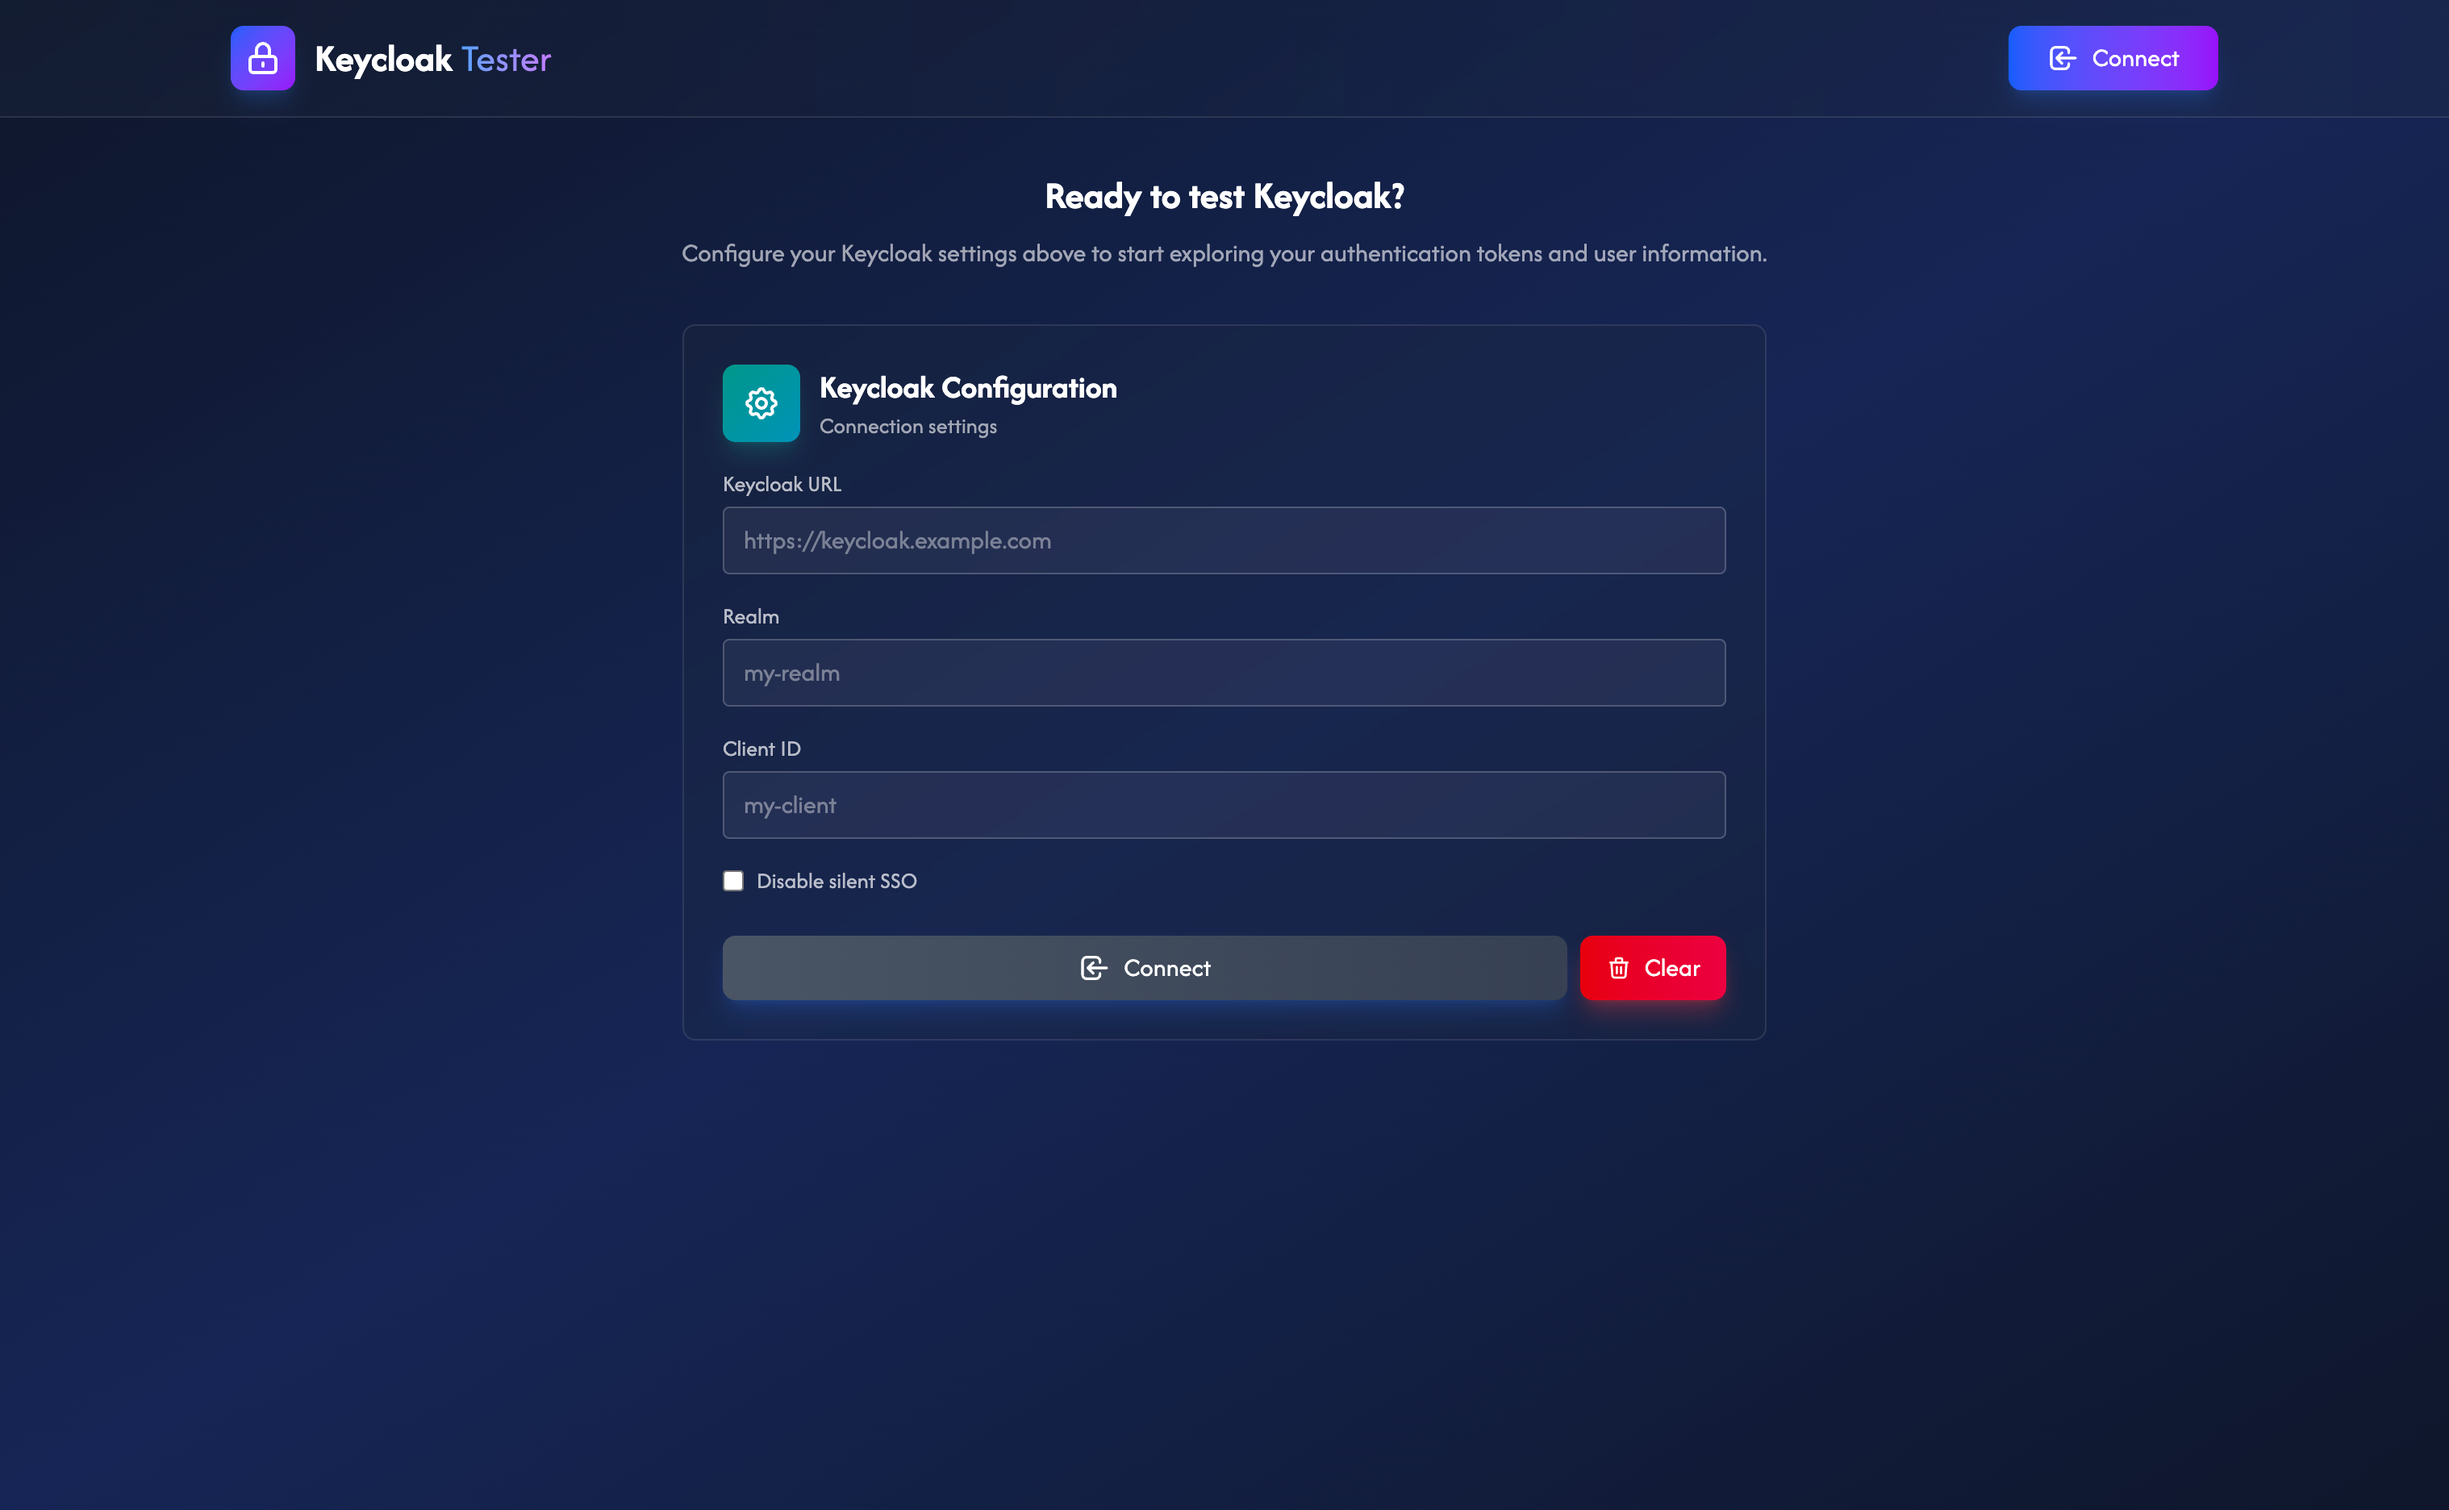
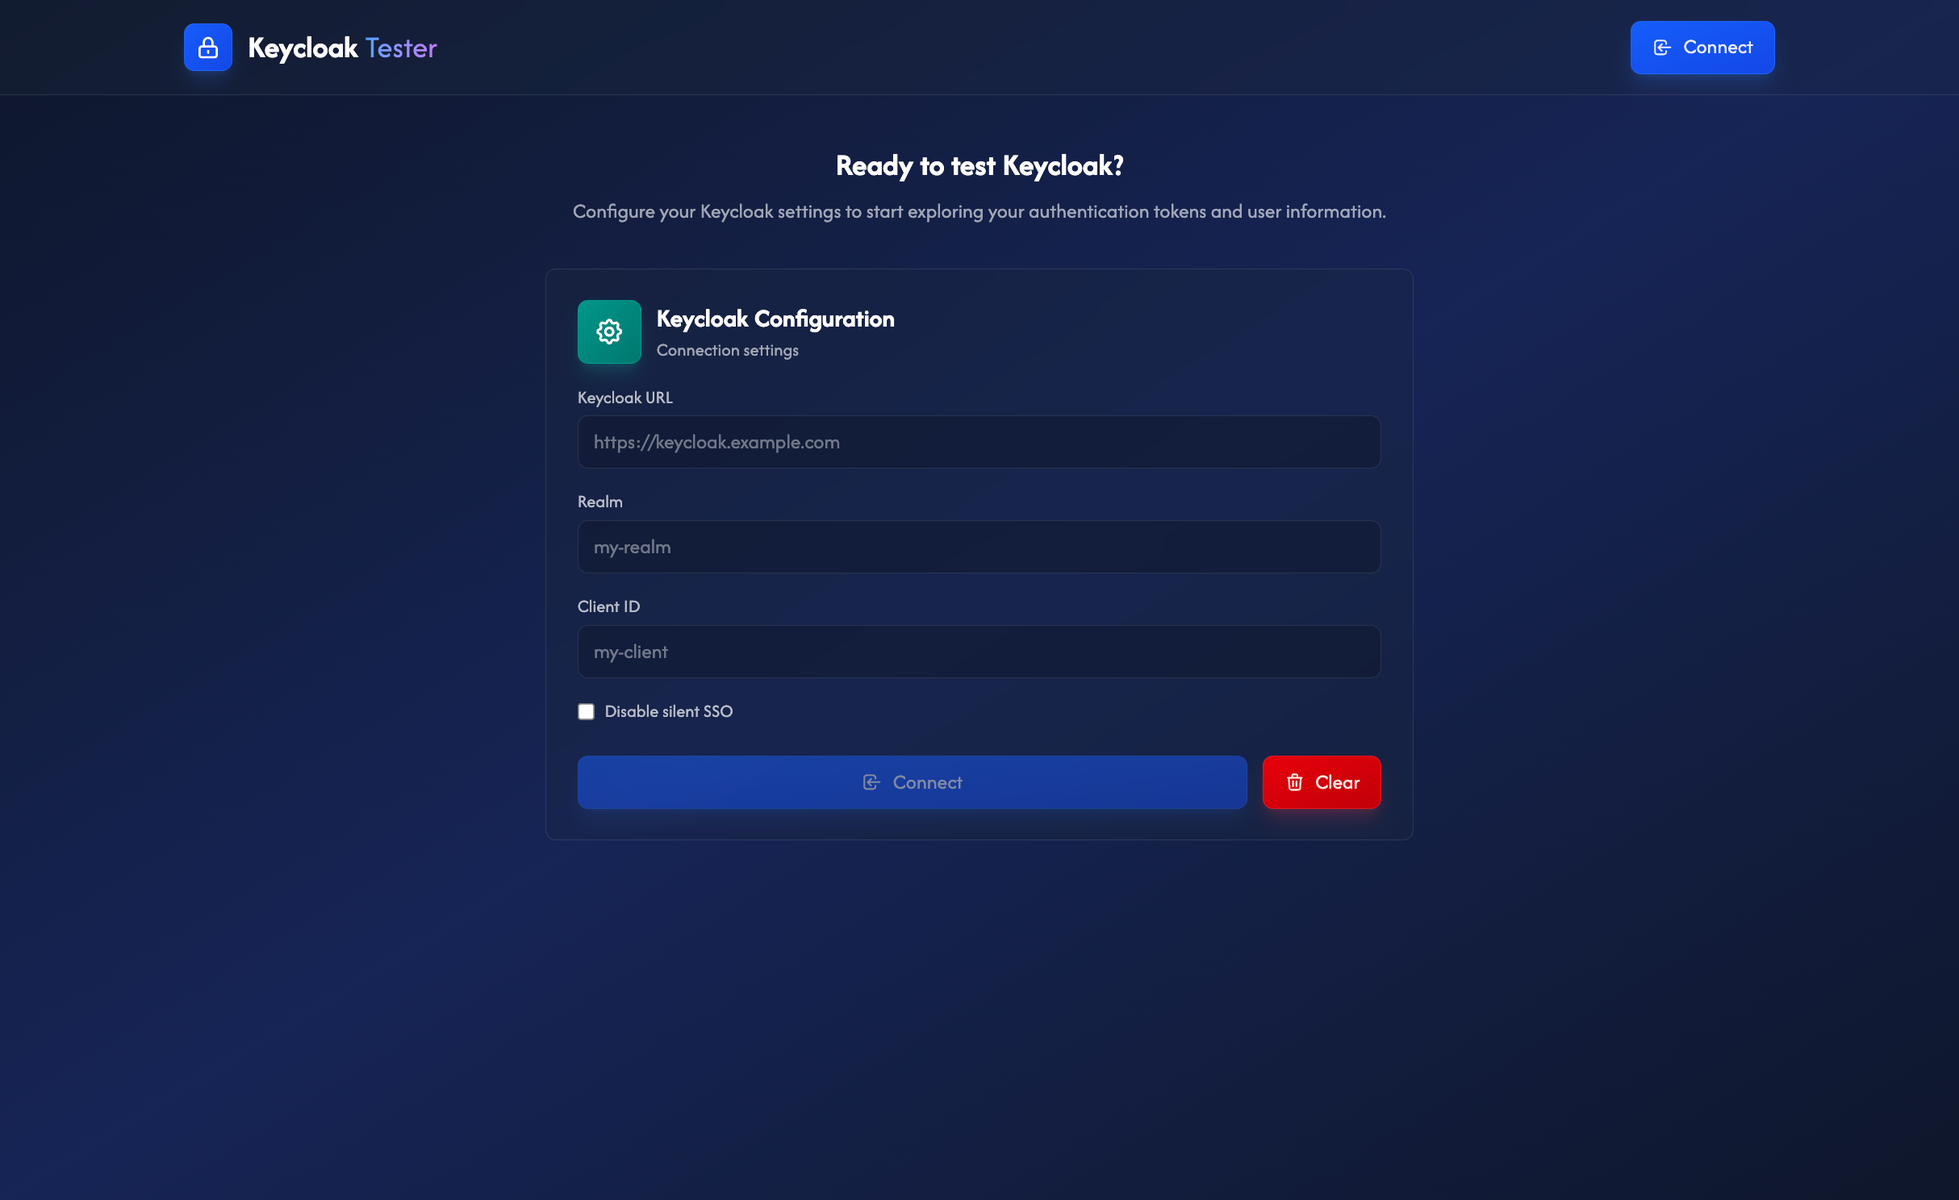
✨ Refactor toast notifications and improve UI components for better user experience

diff --git a/src/components/ToastContainer.tsx b/src/components/ToastContainer.tsx
@@ -1,0 +1,100 @@
+import { useState, useEffect, useCallback } from 'react';
+import { GlassPanel } from './GlassPanel';
+import { IconBox } from './IconBox';
+import { Button } from './Button';
+import type { ColorName } from '../styles/colors';
+
+interface ToastItem {
+  id: string;
+  message: string;
+  color: ColorName;
+}
+
+interface ToastProps {
+  toast: ToastItem;
+  index: number;
+  onClose: (id: string) => void;
+}
+
+function Toast({ toast, index, onClose }: ToastProps) {
+  const [isClosing, setIsClosing] = useState(false);
+  const [isEntering, setIsEntering] = useState(false);
+
+  const handleClose = useCallback(() => {
+    setIsClosing(true);
+    setTimeout(() => {
+      onClose(toast.id);
+    }, 300);
+  }, [toast.id, onClose]);
+
+  useEffect(() => {
+    // Animation d'entrée
+    setTimeout(() => setIsEntering(true), 10);
+
+    // Timer de fermeture automatique
+    const timer = window.setTimeout(() => {
+      handleClose();
+    }, 3000);
+
+    return () => clearTimeout(timer);
+  }, [handleClose]);
+
+  return (
+    <div
+      className={`transition-all duration-300 ${isClosing ? 'translate-x-[120%] opacity-0' : isEntering ? 'translate-x-0 opacity-100' : 'translate-x-[120%] opacity-0'} ${index > 0 ? 'mb-3' : ''}`}
+    >
+      <GlassPanel padding="sm" borderColor={toast.color} className="max-w-sm">
+        <div className="flex items-center gap-3">
+          <IconBox color={toast.color} size="sm">
+            <svg
+              className="w-4 h-4"
+              fill="none"
+              stroke="currentColor"
+              viewBox="0 0 24 24"
+            >
+              <path
+                strokeLinecap="round"
+                strokeLinejoin="round"
+                strokeWidth={2}
+                d="M9 12l2 2 4-4m6 2a9 9 0 11-18 0 9 9 0 0118 0z"
+              />
+            </svg>
+          </IconBox>
+          <p className="text-white font-medium flex-1">{toast.message}</p>
+          <Button size="sm" onClick={handleClose} className="p-1.5! shrink-0">
+            <svg
+              className="w-4 h-4"
+              fill="none"
+              stroke="currentColor"
+              viewBox="0 0 24 24"
+            >
+              <path
+                strokeLinecap="round"
+                strokeLinejoin="round"
+                strokeWidth={2}
+                d="M6 18L18 6M6 6l12 12"
+              />
+            </svg>
+          </Button>
+        </div>
+      </GlassPanel>
+    </div>
+  );
+}
+
+interface ToastContainerProps {
+  toasts: ToastItem[];
+  onRemove: (id: string) => void;
+}
+
+export function ToastContainer({ toasts, onRemove }: ToastContainerProps) {
+  if (toasts.length === 0) return null;
+
+  return (
+    <div className="fixed bottom-6 right-6 z-50 flex flex-col-reverse items-end">
+      {toasts.map((toast, index) => (
+        <Toast key={toast.id} toast={toast} index={index} onClose={onRemove} />
+      ))}
+    </div>
+  );
+}

diff --git a/src/App.tsx b/src/App.tsx
@@ -1,12 +1,19 @@
-import { useState } from 'react';
+import { useState, useCallback, useEffect } from 'react';
 import { ConfigForm } from './components/ConfigForm';
 import { NavBar } from './components/NavBar';
 import { UserMenu } from './components/UserMenu';
 import { TokenDisplay } from './components/TokenDisplay';
-import { Toast } from './components/Toast';
+import { ToastContainer } from './components/ToastContainer';
 import { ExpirationTimer } from './components/ExpirationTimer';
 import { Loader } from './components/Loader';
 import { useKeycloak } from './hooks/useKeycloak';
+import type { ColorName } from './styles/colors';
+
+interface ToastItem {
+  id: string;
+  message: string;
+  color: ColorName;
+}
 
 function App() {
   const {
@@ -20,10 +27,21 @@ function App() {
     disconnect,
     refresh,
     clearConfig,
-    clearError,
   } = useKeycloak();
   const [showUserMenu, setShowUserMenu] = useState(false);
-  const [refreshMessage, setRefreshMessage] = useState<string | null>(null);
+  const [toasts, setToasts] = useState<ToastItem[]>([]);
+
+  const addToast = useCallback(
+    (message: string, color: ColorName = 'emerald') => {
+      const id = Date.now().toString();
+      setToasts((prev) => [...prev, { id, message, color }]);
+    },
+    []
+  );
+
+  const removeToast = useCallback((id: string) => {
+    setToasts((prev) => prev.filter((t) => t.id !== id));
+  }, []);
 
   const isConnected = !!tokens;
 
@@ -35,12 +53,18 @@ function App() {
     const result = await refresh();
     if (result.success) {
       if (result.refreshed) {
-        setRefreshMessage('Tokens refreshed successfully!');
+        addToast('Tokens refreshed successfully!', 'emerald');
       } else {
-        setRefreshMessage('Tokens are still valid, no need to refresh.');
+        addToast('Tokens are still valid, no need to refresh.', 'emerald');
       }
     }
   };
+
+  useEffect(() => {
+    if (error) {
+      addToast(error, 'red');
+    }
+  }, [error, addToast]);
 
   return (
     <div className="min-h-screen bg-linear-to-br from-slate-900 via-blue-950 to-slate-900">
@@ -65,12 +89,7 @@ function App() {
       )}
 
       {/* Toast notifications */}
-      <Toast
-        message={refreshMessage}
-        color="emerald"
-        onClose={() => setRefreshMessage(null)}
-      />
-      <Toast message={error} color="red" onClose={clearError} />
+      <ToastContainer toasts={toasts} onRemove={removeToast} />
 
       {/* Initialization loader */}
       {isInitializing && <Loader message="Vérification de la connexion..." />}

diff --git a/README.md b/README.md
@@ -14,15 +14,15 @@ Perfect for developers setting up Keycloak for the first time or testing authent
 
 **Configuration Screen** - Fill in your Keycloak connection details
 
-<img src="./assets/image1.png" alt="Configuration Screen" width="600">
+<img src="./assets/image1.png" alt="Configuration Screen" width="500">
 
 **Token Display** - View and decode all JWT tokens with live expiration timers
 
-<img src="./assets/image2.png" alt="Token Display" width="600">
+<img src="./assets/image2.png" alt="Token Display" width="500">
 
 **User Profile** - Inspect user claims and assigned realm roles
 
-<img src="./assets/image3.png" alt="User Profile" width="600">
+<img src="./assets/image3.png" alt="User Profile" width="500">
 
 ## 🚀 Quick Start
 
